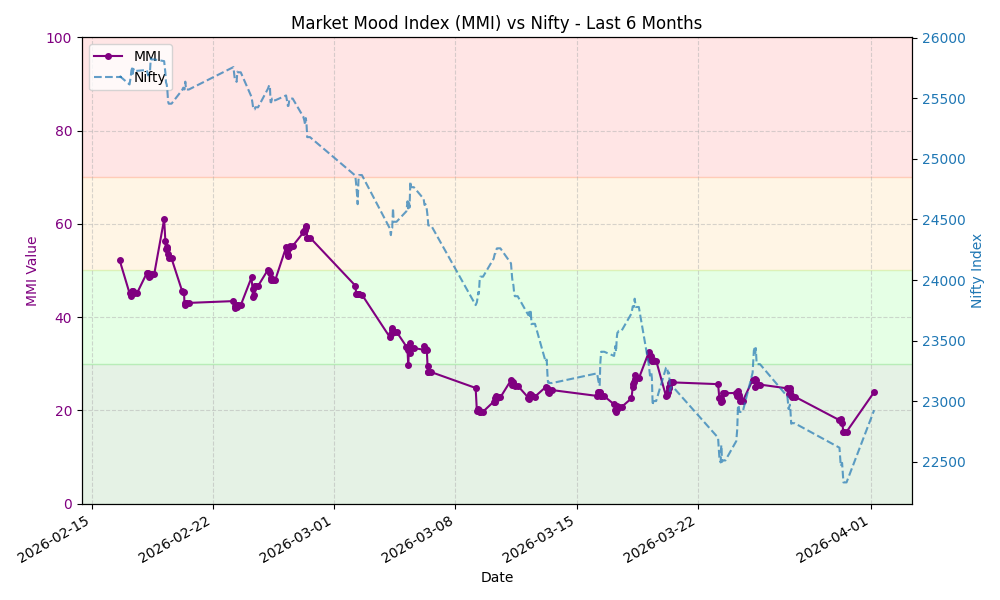
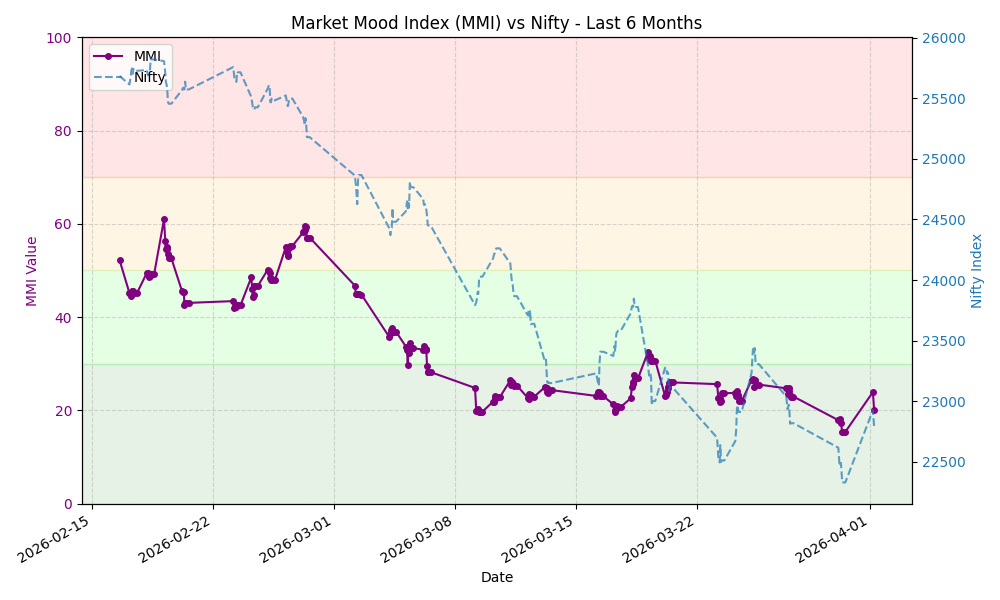
Update MMI data and chart

diff --git a/README.md b/README.md
@@ -7,8 +7,8 @@ This repository automatically fetches the MMI value, stores the history, and gen
 
 ## Latest MMI Value
 
-**23.91** - **Extreme Fear**
-<small>Last Updated: 2026-04-01 04:36 UTC</small>
+**20.15** - **Extreme Fear**
+<small>Last Updated: 2026-04-01 06:18 UTC</small>
 
 ## MMI Trend (Last 30 Days)
 
